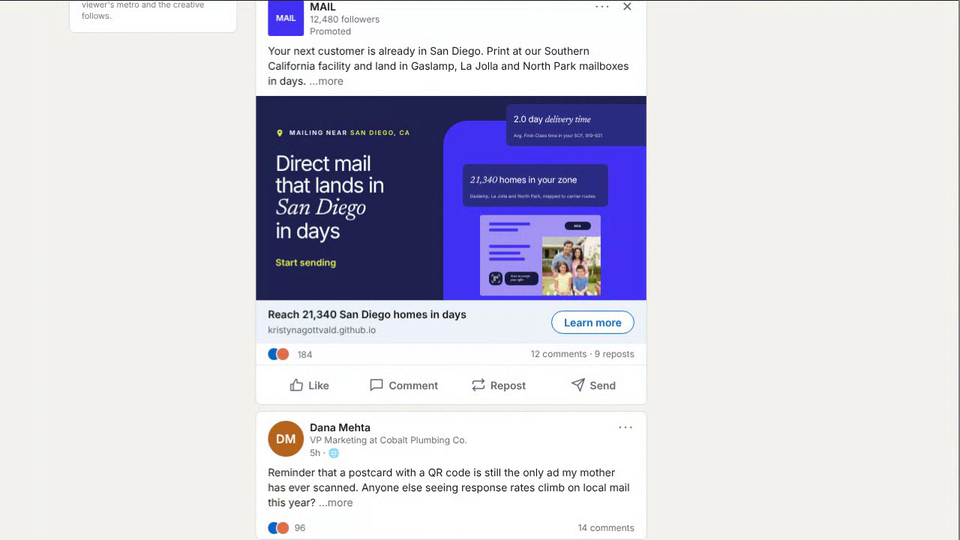
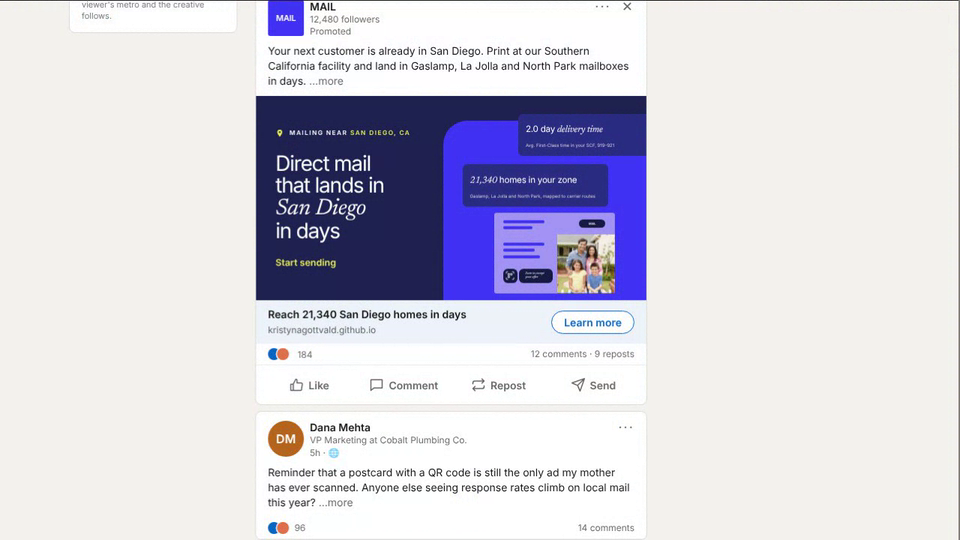
Paid Ad Pipeline: reposition delivery time blurb and postcard
Claude-Session: https://claude.ai/code/session_01AHeBe16MbJ3hGUT21NJCss

Changed region(s): [[0.5, 0.3852, 0.6562, 0.563], [0.5, 0.1778, 0.6875, 0.2963]]

diff --git a/paid-ad-pipeline/index.html b/paid-ad-pipeline/index.html
@@ -79,7 +79,7 @@ nav.back span{color:#6e6e6e}nav.back b{font-weight:500;color:#fff;overflow:hidde
 .cr .bl strong{display:block;font:400 3.6cqw/1.1 var(--sans);letter-spacing:-.02em}.cr .bl strong i{font:italic 400 3.8cqw var(--serif)}
 .cr .bl p{font:400 1.85cqw/1.4 var(--sans);color:rgba(255,255,255,.75);margin-top:1.2cqw}
 .cr .box{position:absolute;left:0;right:0;top:7%;bottom:0;background:var(--purple);border-radius:32px;overflow:hidden}
-.cr .mail{position:absolute;z-index:2;left:15%;top:46%;width:50%;aspect-ratio:1.5;border-radius:3px;overflow:hidden;background:#a393f5}
+.cr .mail{position:absolute;z-index:2;left:21%;top:45%;width:50%;aspect-ratio:1.5;border-radius:3px;overflow:hidden;background:#a393f5}
 .cr .mail .el{position:absolute}
 .cr .mail .bar2{background:var(--purple);border-radius:99px}
 .cr .mail .tag{background:var(--deep);color:#fff;border-radius:6px;font:600 1.2cqw/1 var(--sans);display:flex;align-items:center;justify-content:center}
@@ -209,7 +209,7 @@ tfoot td{font-weight:600;border-top:1px solid rgba(255,255,255,.25)}
     <a class="cr" id="adCr" href="https://kristynagottvald.github.io/sandbox/location-hero/?utm_source=linkedin&amp;utm_medium=paid_social&amp;utm_campaign=location_hero" aria-label="Direct mail that lands in your city in days. Opens the landing page">
      <div class="l"><div class="chip"><svg viewBox="0 0 24 24"><path d="M12 2a7 7 0 0 0-7 7c0 5.200 7 13 7 13s7-7.800 7-13a7 7 0 0 0-7-7zm0 9.500a2.500 2.500 0 1 1 0-5 2.500 2.500 0 0 1 0 5z"/></svg><span>Mailing near <em class="sw" id="crCity"></em></span></div>
       <h4><span class="sw" id="crH"></span></h4><div class="form">Start sending</div></div>
-     <div class="stage"><div class="bl" style="left:26%;top:0"><strong class="sw" id="b1h"></strong><p class="sw" id="b1p"></p></div><div class="bl" style="left:8%;top:25%"><strong class="sw" id="b2h"></strong><p class="sw" id="b2p"></p></div>
+     <div class="stage"><div class="bl" style="left:31%;top:4%"><strong class="sw" id="b1h"></strong><p class="sw" id="b1p"></p></div><div class="bl" style="left:8%;top:25%"><strong class="sw" id="b2h"></strong><p class="sw" id="b2p"></p></div>
       <div class="box"></div>
       <div class="mail"><div class="el bar2" style="left:7.7%;top:9%;width:34%;height:4.2%"></div><div class="el bar2" style="left:7.7%;top:16.5%;width:24%;height:4.2%"></div><div class="el tag" style="left:70%;top:8.5%;width:22%;height:10%">MAIL</div>
        <div class="el bar2" style="left:7.7%;top:37%;width:34%;height:3.6%"></div><div class="el bar2" style="left:7.7%;top:45%;width:26%;height:3.6%"></div><div class="el bar2" style="left:7.7%;top:53%;width:30%;height:3.6%"></div>
